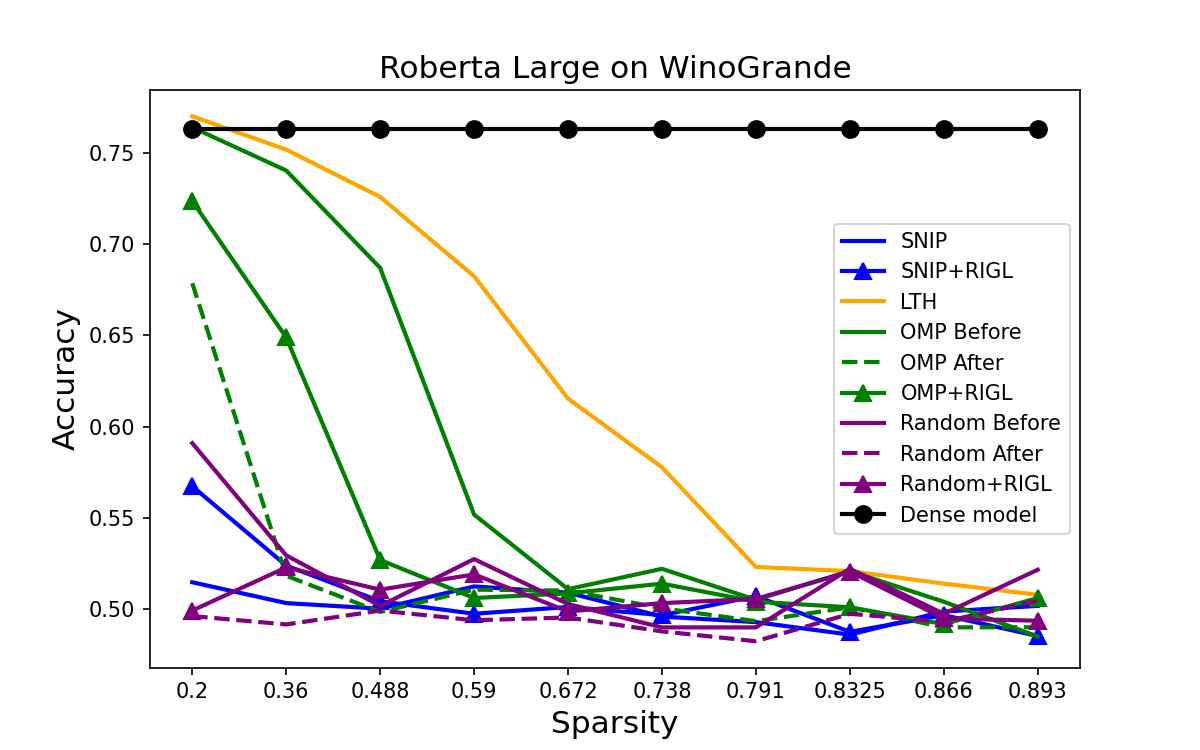
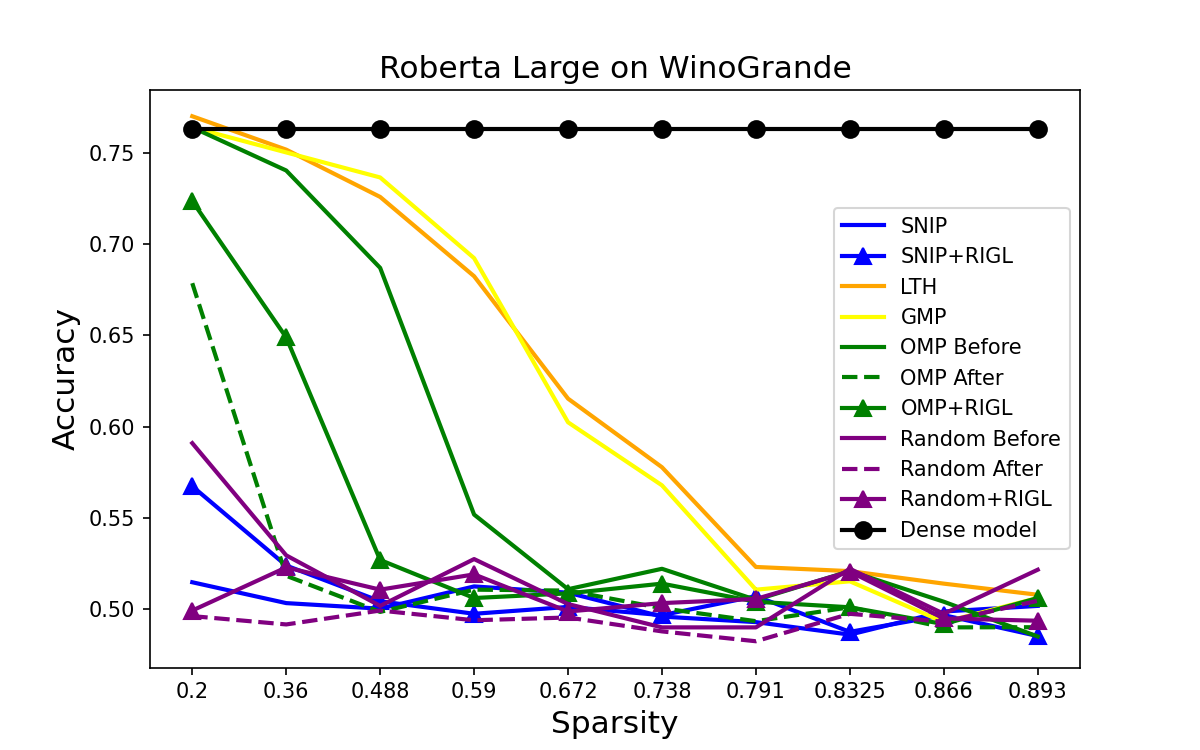
test after for qa

diff --git a/plot/Commonsense_qa.py b/plot/Commonsense_qa.py
@@ -11,6 +11,7 @@ robert_lth = [75.92, 74.04, 69.62, 19.57, 19.57, 19.57, 19.57, 19.57, 19.57, 19.
 x_lth = [0.2, 0.36, 0.488, 0.590, 0.672, 0.738, 0.791, 0.8325, 0.866, 0.893]
 
 robert_snip = [20.31, 18.92, 18.51, 19.16, 18.67, 18.76, 18.76, 18.59, 18.59, 18.26]
+robert_gmp = [76.00, 72.40, 63.96, 19.57, 19.57, 19.57, 19.57, 19.57, 19.57, 19.57]
 robert_snip_rigl = [19.00, 19.00, 20.22, 17.60, 22.19, 19.73, 18.75, 19.25, 20.14, 19.57]
 robert_gm_before = [75.92, 59.41, 39.39, 19.57, 19.57, 19.57, 19.57, 19.57, 19.57, 19.57]
 robert_gm_after = [62.24, 29.07, 20.63, 19.57, 19.57, 19.57, 19.57, 19.57, 19.57, 19.57]
@@ -26,6 +27,7 @@ x_axis = range(10)
 roberta_large = fig.add_subplot(1,1,1)
 roberta_large.plot(x_axis, dense*10,  '-o',   label='Dense model',color='black',linewidth=linewidth, markersize=markersize, )
 roberta_large.plot(x_axis, robert_snip,  '-',   label='SNIP',color='blue',linewidth=linewidth, markersize=markersize, )
+roberta_large.plot(x_axis, robert_gmp,  '-',   label='GMP',color='yellow',linewidth=linewidth, markersize=markersize, )
 roberta_large.plot(x_axis, robert_snip_rigl,  '-',   label='SNIP+RIGL',color='blue',linewidth=linewidth, markersize=markersize, marker='^'  )
 roberta_large.plot(x_axis, robert_lth,  '-',   label='LTH',color='orange',linewidth=linewidth, markersize=markersize, )
 roberta_large.plot(x_axis, robert_gm_before,  '-',   label='OMP Before',color='green',linewidth=linewidth, markersize=markersize, )

diff --git a/plot/winogrande.py b/plot/winogrande.py
@@ -68,6 +68,14 @@ with open('/Users/liushiwei/Projects/fairseq/results/reasoning/winogrande/winogr
             # print(line.split())
             acc_random_rigl.append(float(line.split()[19][:-1]))
 
+acc_gmp = []
+with open('/Users/liushiwei/Projects/fairseq/results/reasoning/winogrande/winogrande_gmp.out') as file:
+    for line in file:
+        if 'val | epoch 019 |' in line:
+            # print(line.split())
+            acc_gmp.append(float(line.split()[19][:-1]))
+
+
 
 
 
@@ -79,6 +87,7 @@ roberta_large = fig.add_subplot(1,1,1)
 roberta_large.plot(x_axis, acc_snip,  '-',   label='SNIP',color='blue',linewidth=linewidth, markersize=markersize, )
 roberta_large.plot(x_axis, acc_snip_rigl,  '-',   label='SNIP+RIGL',color='blue',linewidth=linewidth, markersize=markersize, marker='^'  )
 roberta_large.plot(x_axis, acc_imp[1:],  '-',   label='LTH',color='orange',linewidth=linewidth, markersize=markersize, )
+roberta_large.plot(x_axis, acc_gmp,  '-',   label='GMP',color='yellow',linewidth=linewidth, markersize=markersize, )
 roberta_large.plot(x_axis, acc_gm,  '-',   label='OMP Before',color='green',linewidth=linewidth, markersize=markersize, )
 roberta_large.plot(x_axis, acc_omg_after,  '--',   label='OMP After',color='green',linewidth=linewidth, markersize=markersize, )
 roberta_large.plot(x_axis, acc_omp_rigl,  '-',   label='OMP+RIGL',color='green',linewidth=linewidth, markersize=markersize, marker='^' )

diff --git a/plot/race.py b/plot/race.py
@@ -7,14 +7,7 @@ markersize = 3
 linewidth =2
 dense = [77.31]
 
-acc_test = []
-acc_test1 = []
-with open('/Users/liushiwei/Projects/TUE_projects/fairseq/results/cobert_race_TEST.out') as file:
-    for line in file:
-        if 'test | valid on' in line:
-            acc_test.append(float(line.split()[19]))
-        if ' | test1 | valid on' in line:
-            acc_test1.append(float(line.split()[19]))
+
 
 acc_test_random = []
 acc_test_random_high = []

diff --git a/examples/roberta/commonsense_qa/evaluate.py b/examples/roberta/commonsense_qa/evaluate.py
@@ -13,7 +13,7 @@ def sorted_nicely(l):
 
 check_point_folder_source = '/projects/0/prjste21060/projects/pruning_fails/QA/robert/commonsenseqa/'
 
-for method in ['gmp/']:
+for method in ['gm_after/', 'random_after/']:
 
     check_point_folder = check_point_folder_source + method
     # model_files = [0.5]
